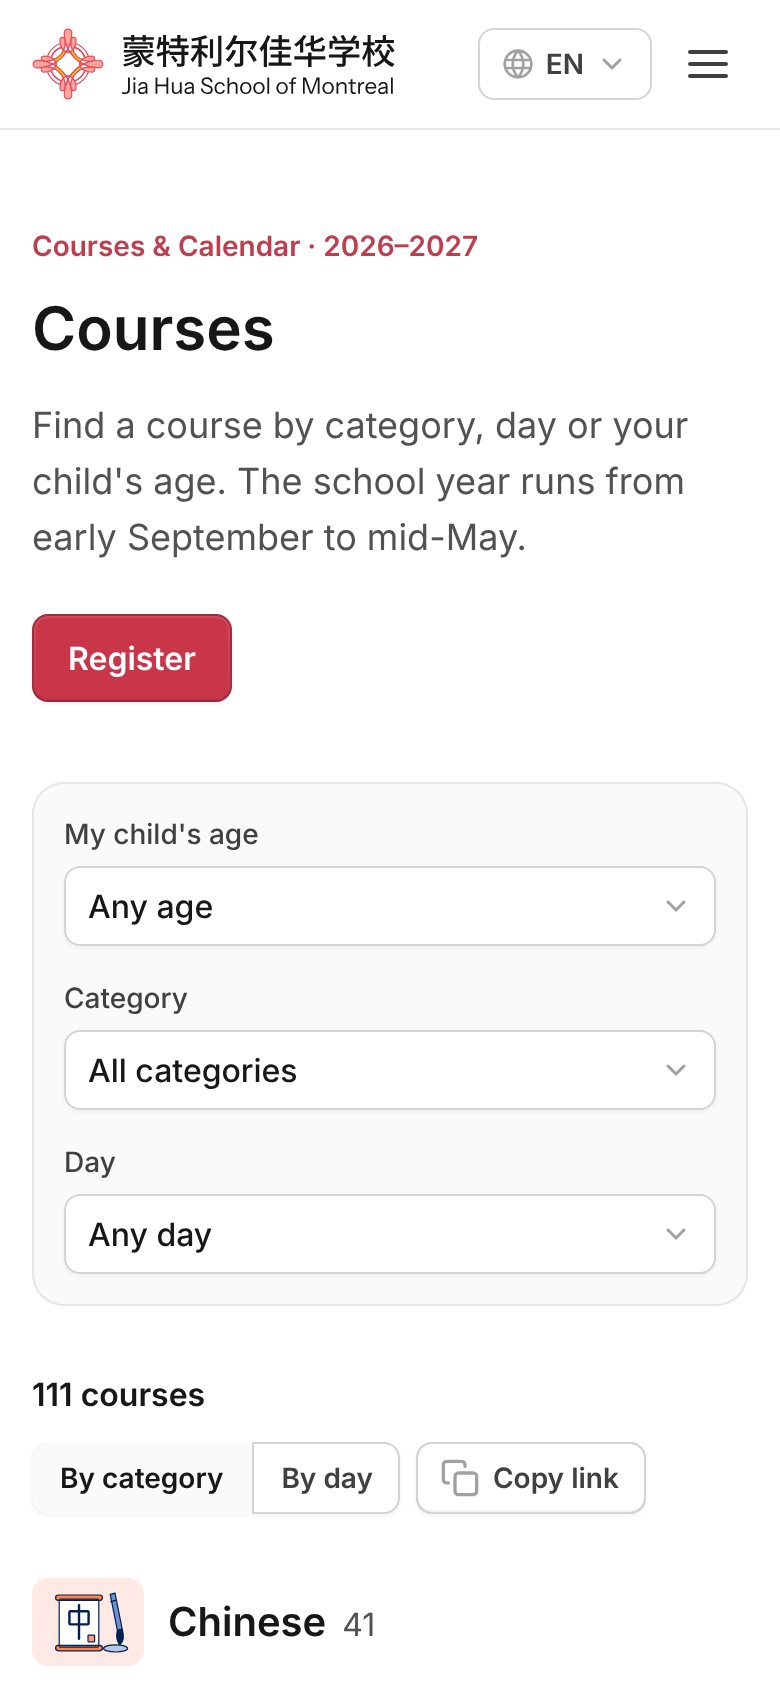
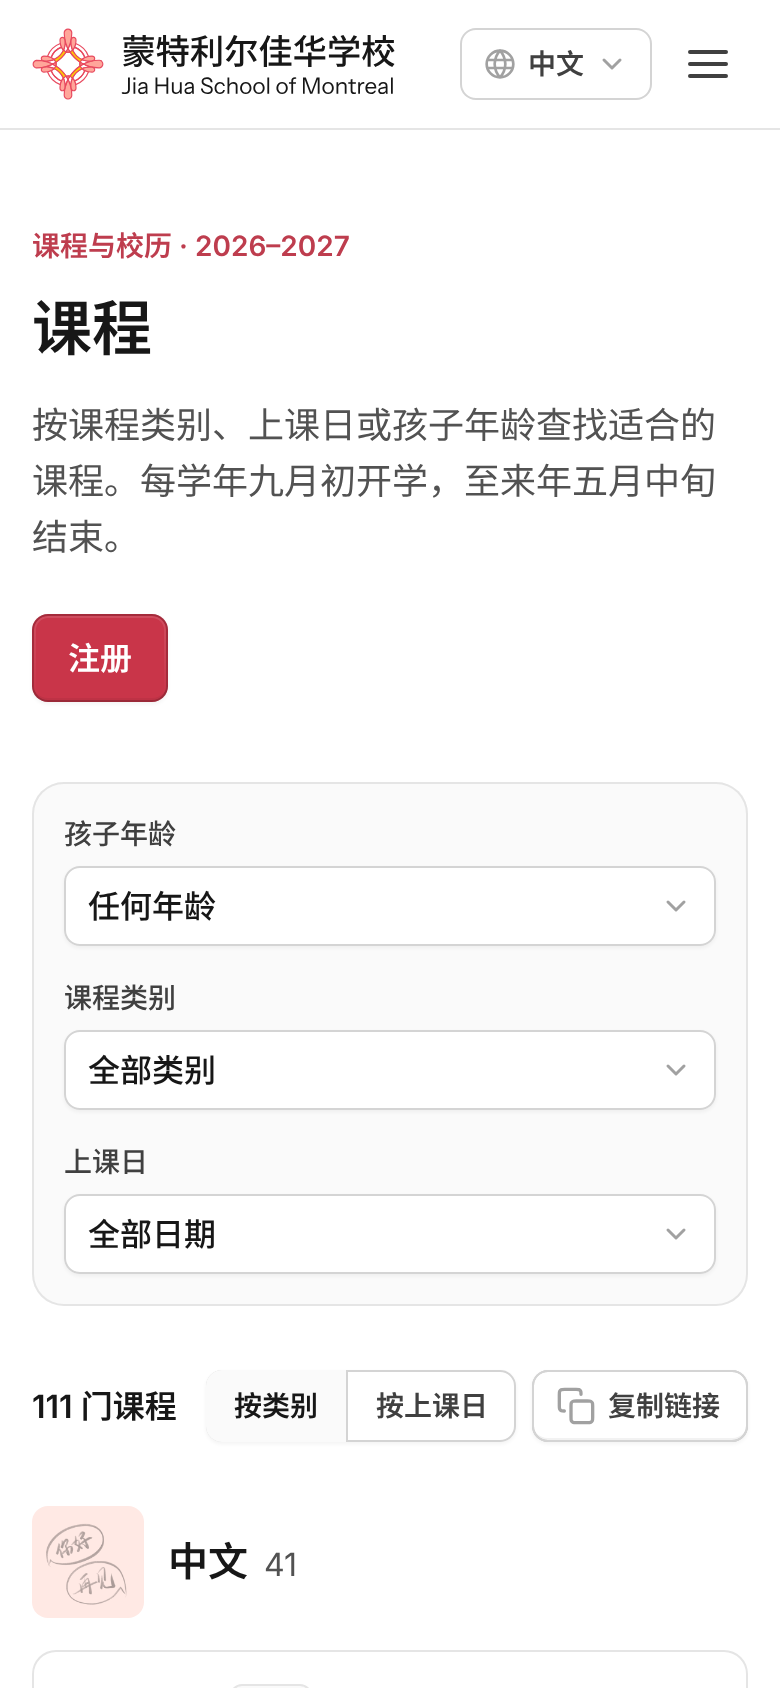
Update README screenshots and home page description
Claude-Session: https://claude.ai/code/session_011rgrFqiFQiydnmHm5TmNyW

diff --git a/README.md b/README.md
@@ -10,7 +10,7 @@ The website of Jia Hua School of Montreal, a Chinese school founded in 1994. The
 
 | Page | What parents find there |
 | --- | --- |
-| Home | The next class day, important notices, course categories and the latest news |
+| Home | An introduction to the school and the course categories |
 | About | The school's history, the committee, teachers by subject, and teachers' insights |
 | Courses | All 111 courses, filtered by the child's age, category or day, with a by-day timetable |
 | Calendar | Class days, holidays and exams for the school year |
@@ -56,7 +56,7 @@ Open http://localhost:3000. It goes to the Chinese site; switch languages from t
 | `src/components/site/` | Jia Hua components such as the header, footer, course finder and teacher directory |
 | `src/components/base`, `application`, `foundations` | Untitled UI components. Use these before writing new ones. |
 | `src/styles/theme.css` | Colours and fonts |
-| `public/` | Logo, favicon and course illustrations |
+| `public/` | Logo, favicon and the hand-drawn course illustrations |
 
 Pages read content only through `src/lib/content.ts`, so the content can later move to a database without changing the pages.
 
